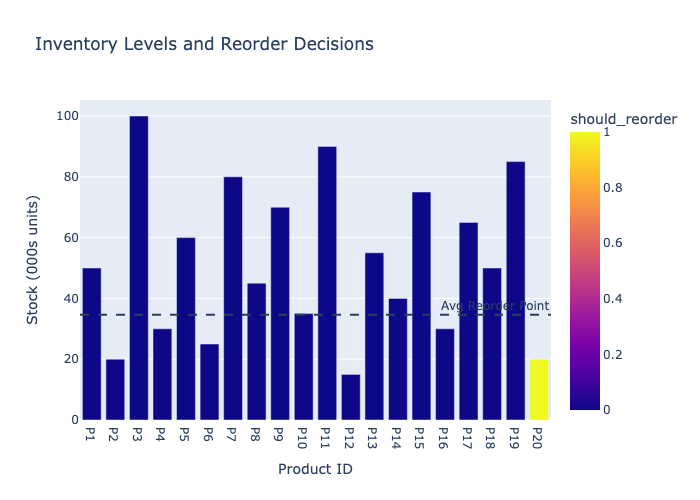
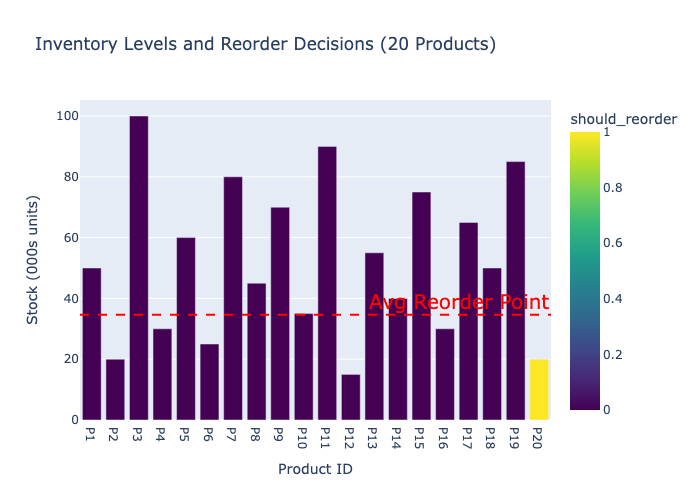
A few updates

Changed region(s): [[0.12, 0.21, 0.78, 0.84], [0.81, 0.27, 0.87, 0.84], [0.54, 0.06, 0.72, 0.12]]

diff --git a/supply_chain_dashboard.py b/supply_chain_dashboard.py
@@ -45,13 +45,14 @@ prob.solve()
 df['should_reorder'] = [reorder[pid].varValue for pid in df['product_id']]
 
 # Visualize inventory levels
-fig = px.bar(df, x='product_id', y='stock', color='should_reorder', 
-             title='Inventory Levels and Reorder Decisions',
-             labels={'stock': 'Stock (000s units)', 'product_id': 'Product ID'})
-fig.add_hline(y=df['reorder_point'].mean(), line_dash="dash", annotation_text="Avg Reorder Point")
-fig.update_traces(hovertemplate='Product: %{x}<br>Stock: %{y}<br>Demand: %{customdata[0]}<br>Lead Time: %{customdata[1]}', 
-                  customdata=df[['demand_rate', 'lead_time']])
-
+fig = px.bar(df, x='product_id', y='stock', color='should_reorder',
+             title='Inventory Levels and Reorder Decisions (20 Products)',
+             labels={'stock': 'Stock (000s units)', 'product_id': 'Product ID'},
+             color_continuous_scale='Viridis')
+fig.add_hline(y=df['reorder_point'].mean(), line_dash="dash", line_color="red", annotation_text="Avg Reorder Point", annotation_font_size=20,
+              annotation_font_color="red")
+fig.update_traces(hovertemplate='Product: %{x}<br>Name: %{customdata[0]}<br>Description: %{customdata[1]}<br>Purpose: %{customdata[2]}<br>Stock: %{y}k units<br>Demand: %{customdata[3]}k/day<br>Lead Time: %{customdata[4]} days<br>Safety Stock: %{customdata[5]}k units',
+                  customdata=df[['product_name', 'description', 'purpose', 'demand_rate', 'lead_time', 'safety_stock']])
 
 # Get today's date in YYYY-MM-DD format
 today = datetime.now().strftime('%Y-%m-%d')
@@ -64,7 +65,11 @@ os.makedirs(output_folder, exist_ok=True)
 
 # Create dashboard.png
 fig.write_image(f'{output_folder}/dashboard.png')
-fig.show()
+
+# Visualize cost to reorder each product
+fig2 = px.bar(df, x='product_id', y='reorder_cost', title='Reorder Costs by Product',
+              labels={'reorder_cost': 'Cost (000s USD)'})
+fig2.write_image(f'{output_folder}/cost-to-reorder.png')
 
 # Save to CSV for documentation
 df.to_csv('data/output/inventory_dashboard.csv', index=False)
